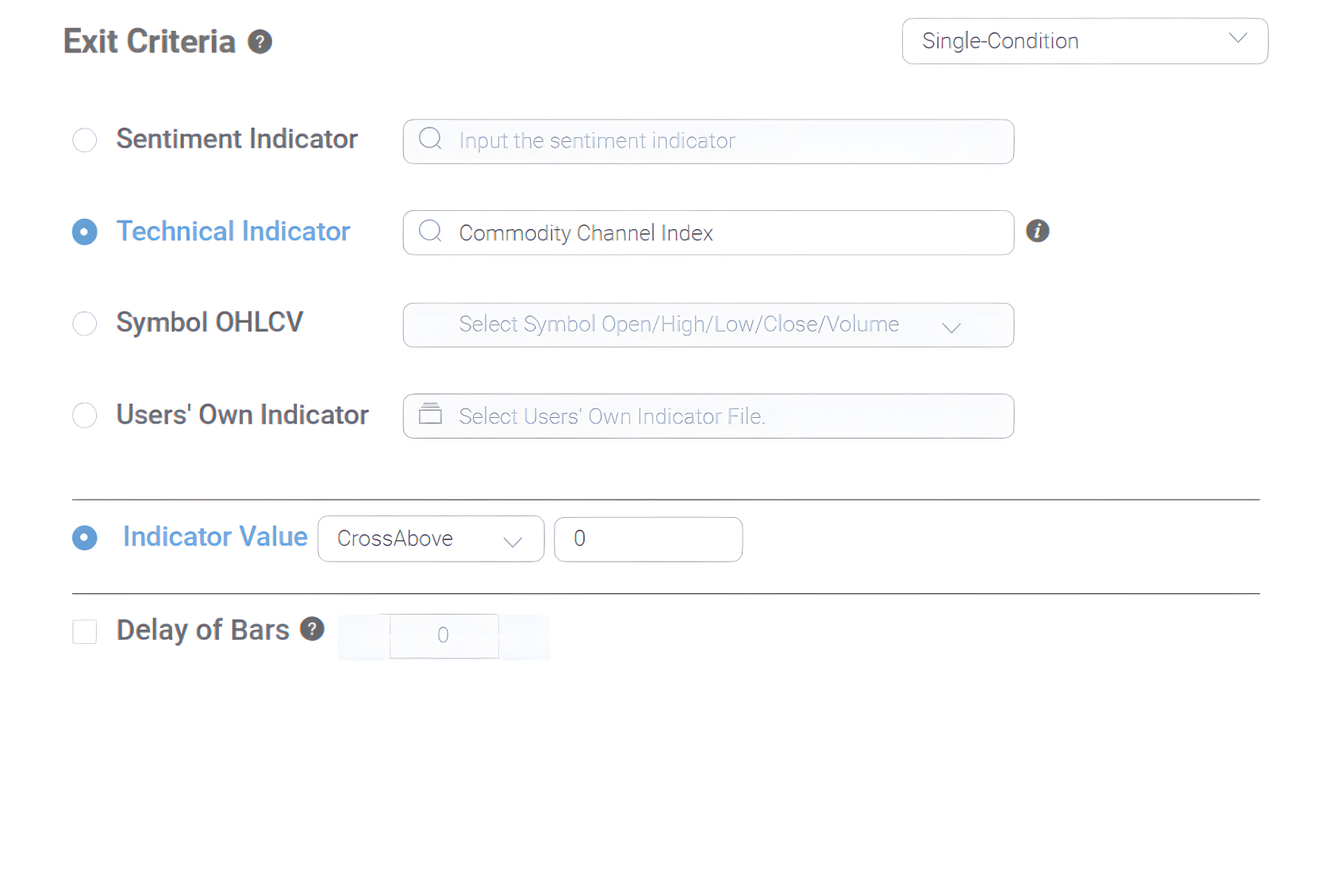
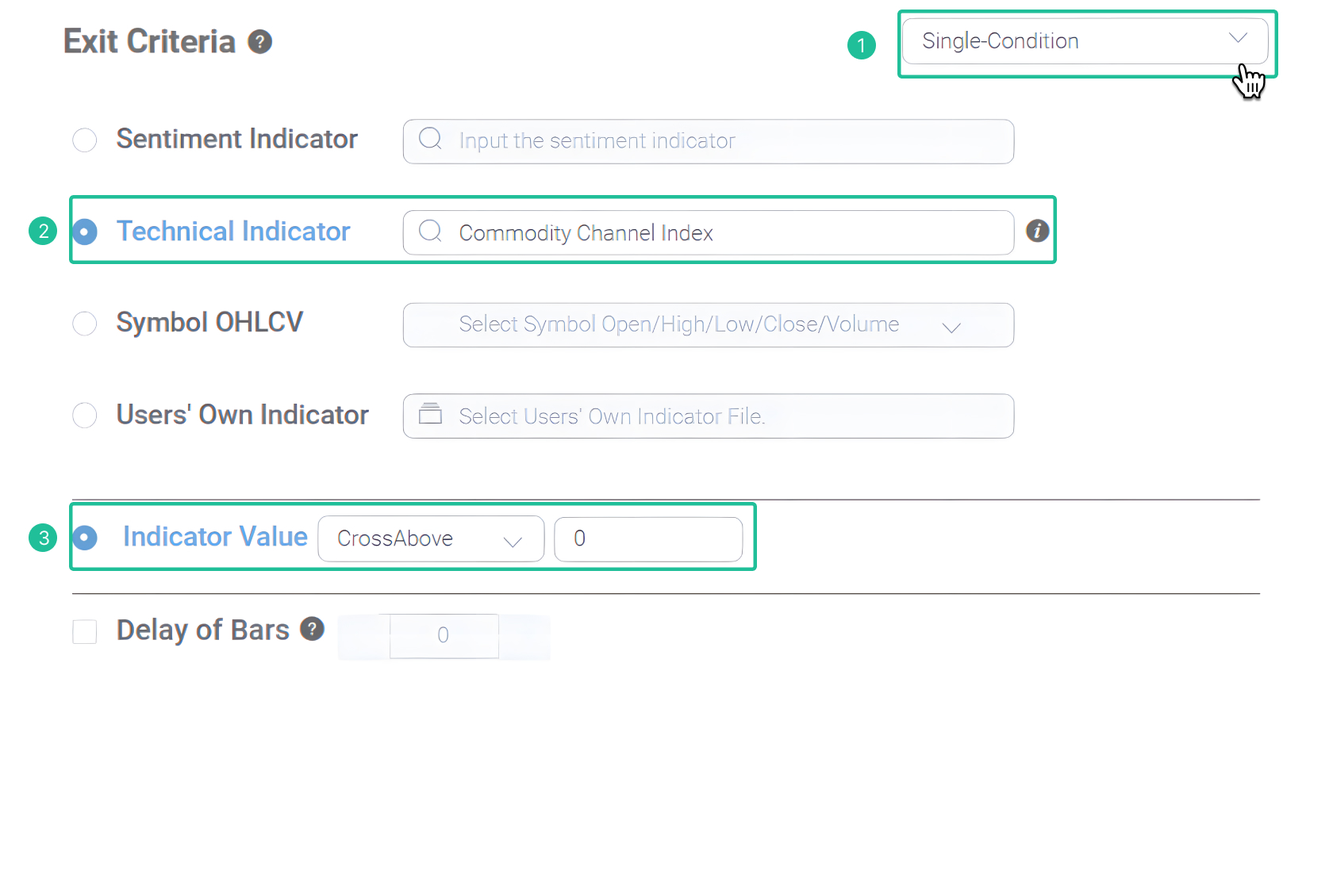
增加标签说明

diff --git a/src/components/Menu/components/Tabs.vue b/src/components/Menu/components/Tabs.vue
@@ -1,0 +1,219 @@
+<template>
+	<div>
+		<!-- 头部标签 -->
+		<div class="tabs">
+			<div
+				v-for="(tab, index) in tabs"
+				:key="index"
+				class="tab"
+				:class="{ active: activeTab === index }"
+				@click="changeTab(index)"
+			>
+				<el-tag
+					:type="tab.type"
+					effect="dark"
+					:class="{ 'active-tag': activeTab == tab.index }"
+					>{{ tab.title }}</el-tag
+				>
+			</div>
+		</div>
+
+		<!-- 内容展示区域 -->
+		<div class="content">
+			<div
+				v-for="(tab, index) in tabs"
+				:key="index"
+				v-show="activeTab === index"
+			>
+				<div v-for="(item, index) in tab.content" :key="index">
+					<p>{{ item }}</p>
+				</div>
+			</div>
+		</div>
+	</div>
+</template>
+
+<script>
+export default {
+  data() {
+    return {
+      activeTab: 0, // 当前激活的标签索引
+      tabs: [
+        {
+          title: 'Sentiment Indicator', content: [
+            'In stock backtesting, a Sentiment Indicator refers to an indicator used to measure the sentiment of market participants or market sentiment. It is determined by analyzing the comments, behavior, or other indicators of market participants.',
+            'Stock backtesting is a strategic analysis method that evaluates the performance of a specific investment strategy or trading system on historical data by reviewing past market data and indicators. Sentiment indicators are used in stock backtesting to examine the sentiment of market participants and attempt to correlate the sentiment indicator with stock prices or market trends.',
+            'Common sentiment indicators include Smart Money Confidence, Dumb Money Confidence, and others. Sentiment indicators can be used as part of an investment strategy to make buy or sell decisions. For example, when a sentiment indicator shows that market sentiment has reached extreme levels, investors may consider adopting a contrarian trading strategy, reducing positions when market sentiment is excessively optimistic or increasing positions when market sentiment is excessively pessimistic.',
+            'However, it is important to note that sentiment indicators are not standalone predictors of market trends but rather auxiliary tools. The stock market is influenced by multiple factors, and sentiment is just one of them. Therefore, when using sentiment indicators, it is necessary to combine them with other technical indicators and fundamental analysis to make more accurate decisions. Additionally, the calculation and interpretation of sentiment indicators should be approached with caution, avoiding excessive reliance on a single indicator to judge the market.'
+          ], type: 'success'
+        },
+        {
+          title: 'Technical Indicator', content: [
+            'A Technical Indicator is a tool used to analyze financial markets. It is based on historical price and volume data and generates visual indicators or signals through mathematical calculations or statistical models. Technical indicators aim to reveal market trends, price dynamics, and trading opportunities to assist investors in making decisions.',
+            'The calculation of technical indicators is typically based on historical price and volume data, including opening price, closing price, high price, low price, and volume. These indicators can be used to identify market trends, cyclical fluctuations, and price support and resistance levels.',
+            'Some common technical indicators include:',
+            '1. Moving Average: Smooths price data by calculating the average price over a specified period and displays the price trend. Common types of moving averages include Simple Moving Average (SMA) and Exponential Moving Average (EMA).',
+            '2. Relative Strength Index (RSI): Measures the overbought and oversold conditions of the market by evaluating the magnitude of price gains and losses.',
+            '3. Moving Average Convergence Divergence (MACD): Combines short-term and long-term moving averages to display price trend conditions and generate buy and sell signals.',
+            'These are just a few examples of common technical indicators. Each indicator has its specific calculation method and interpretation. Investors typically use multiple technical indicators to analyze the market comprehensively and combine them with other analysis methods to develop investment strategies and make trading decisions.'
+          ], type: 'info'
+        },
+        {
+          title: 'Symbol OHLCV', content: [
+            'In the financial field, Symbol OHLCV refers to a common format for representing historical data of financial asset prices and trading volumes. It represents the Open, High, Low, Close, and Volume of a financial asset.',
+            'Each trading period (e.g., minutes, hours, days) generates a Symbol OHLCV data point. Here is an explanation of each data field:',
+            'Open: The starting price of a particular trading period, representing the price of the asset at the beginning of that period.',
+            'High: The highest point reached by the asset price within that trading period.',
+            'Low: The lowest point reached by the asset price within that trading period.',
+            'Close: The closing price of a particular trading period, representing the price of the asset at the end of that period.',
+            'Volume: The number of asset trades that occurred within that trading period.',
+            "Symbol OHLCV data is commonly used in fields such as chart analysis, technical analysis, and algorithmic trading. By analyzing this data, trends in asset prices, support and resistance levels, and market participants' trading activity can be revealed.",
+            "Common financial market data sources and trading platforms provide functionality to store and transmit data in Symbol OHLCV format. Analysts and traders can use this data to construct charts, apply technical indicators, and backtest and optimize models and strategies based on historical prices and volumes.",
+            "It is important to note that the frequency and time periods of Symbol OHLCV data can be set according to specific needs, such as minute data, hourly data, or daily data, among others. Additionally, Symbol OHLCV data only provides information about prices and trading volumes, and other financial indicators and fundamental data may need to be used in conjunction with it for a more comprehensive analysis and decision-making."
+          ], type: 'warning'
+        },
+        {
+          title: 'Extreme Optimism', content: [
+            'In sentiment indicators, "Extreme Optimism" refers to a state where market participants exhibit a highly positive and optimistic outlook. When the market sentiment reaches extreme optimism, investors generally hold high expectations for the market and tend to buy stocks or other assets.',
+            "Extreme optimism in sentiment indicators can be determined based on different sentiment indicators or market participants' behavior. Here are some examples of sentiment indicators that may indicate extreme optimism:",
+            "1. Investor Surveys: For instance, surveys targeting investors may show that a majority of investors have a highly positive and optimistic view of the market. This could indicate that market participants hold high expectations for future economic prospects and stock market performance.",
+            "2. Sentiment Analysis: By conducting sentiment analysis on textual data such as news reports, social media posts, or online forums, the inclination of market participants' sentiment can be evaluated. When sentiment analysis reveals a significant amount of positive sentiment in the text, it may reflect extreme optimism in the market sentiment.",
+            "3. Technical Indicators: Certain technical indicators may indicate an overbought condition in the market, suggesting a bias towards optimistic sentiment among investors. For example, overbought indicators like RSI show that a stock or index has exceeded the range of buying levels, which may imply that market sentiment is in a state of extreme optimism.",
+            'In BacktestEdeg, select the "Sentiment Indicator" radio button and enter the sentiment indicator you want to search for in the search box, such as "Smart Money Confidence." Below Smart Money Confidence, the corresponding value of "Extreme Optimism" will be displayed.',
+            'Extreme optimism in sentiment indicators can influence market behavior and price trends. Investors commonly believe that the market will continue to rise, which can lead to overbuying and overvaluation. However, it is important to note that extreme optimism in sentiment does not always mean that the market will immediately reverse or decline. Market sentiment is a dynamic factor that needs to be combined with other analytical tools and indicators to make more accurate judgments and decisions.'
+          ], type: 'danger'
+        },
+        {
+          title: 'Extreme Pessimism', content: [
+            'In sentiment indicators, "Extreme Pessimism" refers to a state where market participants exhibit a highly negative and pessimistic outlook. When the market sentiment reaches extreme pessimism, investors generally hold very low expectations for the market and tend to sell stocks or other assets.',
+            "Extreme pessimism in sentiment indicators can be determined based on different sentiment indicators or market participants' behavior. Here are some examples of sentiment indicators that may indicate extreme pessimism:",
+            '1. Investor Surveys: For instance, surveys targeting investors may show that a majority of investors have a highly negative and pessimistic view of the market. This could indicate that market participants hold very low expectations for future economic prospects and stock market performance.',
+            "2. Sentiment Analysis: By conducting sentiment analysis on textual data such as news reports, social media posts, or online forums, the inclination of market participants' sentiment can be evaluated. When sentiment analysis reveals a significant amount of negative sentiment in the text, it may reflect extreme pessimism in market sentiment.",
+            "3. Technical Indicators: Certain technical indicators may indicate an oversold condition in the market, suggesting a bias towards pessimistic sentiment among investors. For example, oversold indicators like RSI show that a stock or index has fallen below the range of selling levels, which may imply that market sentiment is in a state of extreme pessimism.",
+            'Extreme pessimism in sentiment indicators can influence market behavior and price trends. Investors commonly believe that the market will continue to decline, which can lead to overselling and the market being undervalued. However, it is important to note that extreme pessimism in sentiment does not always mean that the market will immediately reverse or rise. Market sentiment is a dynamic factor that needs to be combined with other analytical tools and indicators to make more accurate judgments and decisions.'
+          ], type: 'danger'
+        },
+        {
+          title: 'CrossAbove', content: [
+            'In backtesting trading systems, "CrossAbove" is a technical indicator signal used to indicate when one indicator or price line crosses above another indicator or price line.',
+            'Specifically, "CrossAbove" typically refers to a situation where an indicator or price line crosses from below to above another indicator or price line. This crossover is often seen as a potential buying signal, implying a change in price trend.',
+            "For example, let's assume we have two indicators, A and B, and we observe their crossover. When A crosses above B, it means that A was below B before a certain point in time and then crosses over to be above B at that point. This situation is often interpreted as a potential buying signal, suggesting the formation of an upward price trend.",
+            '"CrossAbove" can be applied to various combinations of indicators and price lines. Common examples include crossovers between moving average lines, such as the short-term moving average crossing above the long-term moving average, or when the price line crosses an important horizontal level.',
+            'The "CrossAbove" signal in backtesting trading systems is often used as one of the buying conditions for technical indicators. By backtesting historical data, the effectiveness and profitability of this signal can be evaluated. However, it is important to note that a single signal does not guarantee accurate predictions of market behavior. Therefore, when formulating trading strategies, it is advisable to combine other technical indicators and risk management principles.'
+          ], type: 'info'
+        },
+        {
+          title: 'CrossBelow', content: [
+            'In backtesting trading systems, "CrossBelow" is a technical indicator signal used to indicate when one indicator or price line crosses below another indicator or price line.',
+            'Specifically, "CrossBelow" typically refers to a situation where an indicator or price line crosses from above to below another indicator or price line. This crossover is often seen as a potential selling signal, implying a change in price trend.',
+            "For example, let's assume we have two indicators, A and B, and we observe their crossover. When A crosses below B, it means that A was above B before a certain point in time and then crosses under B at that point. This situation is often interpreted as a potential selling signal, suggesting the formation of a downward price trend.",
+            '"CrossBelow" can be applied to various combinations of indicators and price lines. Common examples include crossovers between moving average lines, such as the short-term moving average crossing below the long-term moving average, or when the price line crosses an important support level.',
+            'The "CrossBelow" signal in backtesting trading systems is often used as one of the selling conditions for technical indicators. By backtesting historical data, the effectiveness and profitability of this signal can be evaluated. However, it is important to note that a single signal does not guarantee accurate predictions of market behavior. Therefore, when formulating trading strategies, it is advisable to combine other technical indicators and risk management principles.'
+          ], type: 'warning'
+        },
+        {
+          title: 'Rate Of Change', content: [
+            'In backtesting trading, "Rate of Change" (ROC) is a technical indicator used to measure the speed of price or indicator changes over a given time period.',
+            'ROC represents the rate of change by calculating the percentage change between the current price or indicator value and a previous price or indicator value. It helps traders and analysts assess the short-term momentum and trend of prices or indicators.',
+            'The steps to calculate ROC are as follows:',
+            '1. Choose a time period (e.g., 20 trading days).',
+            '2. Obtain the current price or indicator value at the current time point.',
+            '3. Retrieve the price or indicator value from the specified time period ago (referred to as the past value).',
+            '4. Calculate the percentage rate of change: ROC = ((current value - past value) / past value) * 100.',
+            'For example, suppose a stock has a current price of $50 and a price from 20 trading days ago of $40. The ROC would be ((50 - 40) / 40) * 100 = 25%. This means that the price of the stock has increased by 25% over the past 20 trading days.',
+            'ROC can be used to assess the speed of price or indicator changes. If the ROC value is positive, it indicates a relatively fast upward movement in prices or indicators. If the ROC value is negative, it suggests a relatively fast downward movement. Traders can combine ROC with other technical indicators or price patterns to confirm market trends, identify overbought or oversold conditions, and develop buy or sell strategies.',
+            'It is important to note that ROC is a short-term indicator and sensitive to market noise. Therefore, it should be used in conjunction with other indicators and analysis tools to obtain more accurate trading signals and decisions.'
+          ], type: 'success'
+        },
+        {
+          title: 'Range Of Rank', content: [
+            "In backtesting trading, 'Range of Rank' is an indicator used to evaluate the relative performance of an asset or indicator over a certain period of time. It is used to determine the position of an asset or indicator's ranking among the overall market or other participating assets.",
+            "The Range of Rank is represented by converting the performance of an asset or indicator relative to others into a percentile range. This range indicates the level of performance of the asset or indicator compared to other participants.",
+            "The steps to calculate ROC (Rate of Change) are as follows:",
+            "1. Select a time period (e.g., 20 trading days).",
+            "2. Obtain the price or indicator value at the current time point (referred to as the current value).",
+            "3. Obtain the price or indicator value at a specified time period in the past from the current time point (referred to as the past value).",
+            "4. Calculate the percentage rate of change: ROC = ((current value - past value) / past value) * 100.",
+            "For example, let's assume a stock has a price of $50 at the current time point and a price of $40 twenty trading days ago. The ROC would be ((50 - 40) / 40) * 100 = 25%. This means that the price of the stock has increased by 25% over the past twenty trading days.",
+            "ROC can be used to assess the rate of price or indicator changes. A positive ROC value indicates a relatively fast increase in price or indicator, while a negative ROC value indicates a relatively fast decrease. Traders can combine ROC with other technical indicators or price patterns to confirm market trends, identify overbought or oversold conditions, and formulate buying or selling strategies.",
+            "It's important to note that ROC is a short-term indicator and is sensitive to market noise. Therefore, it should be used in conjunction with other indicators and analytical tools to obtain more accurate trading signals and decisions."
+          ], type: 'info'
+        },
+        {
+          title: 'MA Ratio', content: [
+            "In backtesting trading, 'MA Ratio' (Moving Average Ratio) is a technical indicator used to measure the ratio between the short-term and long-term moving averages of an asset's price or indicator.",
+            "MA Ratio is represented by converting the difference between the short-term and long-term moving averages into a ratio or percentage. This ratio provides information about the trend changes and relative strength of the asset's price over different time periods.",
+            "The steps to calculate MA Ratio are as follows:",
+            "1. Select a time period for the short-term moving average (e.g., 20 days) and a time period for the long-term moving average (e.g., 50 days).",
+            "2. Calculate the values of the short-term and long-term moving averages.",
+            "3. Calculate the MA Ratio by dividing the value of the short-term moving average by the value of the long-term moving average and convert it into a ratio or percentage.",
+            "For example, let's assume a stock has a 20-day moving average of $50 and a 50-day moving average of $45. The MA Ratio would be $50 / $45 = 1.11. This means that the value ratio of the short-term moving average to the long-term moving average is 1.11.",
+            "MA Ratio can help traders analyze price trends and determine the relative strength of an asset. When the MA Ratio is greater than 1, it indicates relatively strong short-term trends, and the price may be in an upward state. When the MA Ratio is less than 1, it indicates relatively weak short-term trends, and the price may be in a downward state.",
+            "Traders can use MA Ratio as a reference for buying or selling signals. For example, when the MA Ratio crosses above 1 from below, it may indicate a strengthening short-term trend, and a buying opportunity can be considered. When the MA Ratio crosses below 1 from above, it may indicate a weakening short-term trend, and a selling opportunity can be considered.",
+            "It's important to note that MA Ratio is a technical indicator and only serves as a supplementary tool. It should be used in conjunction with other technical indicators and analysis methods to obtain a more comprehensive market analysis and trading decisions."
+          ], type: 'danger'
+        },
+        {
+          title: 'SameBar', content: [
+            "In backtesting trading, 'SameBar' refers to trading operations that occur within the same candlestick (K-line).",
+            "In technical analysis, candlestick charts are commonly used to represent the price movements of assets, where each candlestick represents a specific time period (e.g., 1 minute, 5 minutes, daily, etc.). Trading operations within the same candlestick indicate buying or selling actions taken during that specific time period.",
+            "When trading operations in a backtesting system occur within the same candlestick, it is referred to as a SameBar trade. This situation may occur when backtesting using shorter time periods for candlesticks because shorter time periods represent shorter time spans with more frequent price fluctuations, resulting in trading signals being generated within the same candlestick.",
+            "Trading operations within the same candlestick have certain characteristics and considerations. Firstly, as the trading operations occur at the same price level, multiple trading signals may be triggered simultaneously, increasing the trading frequency and costs. Secondly, trading operations within the same candlestick mean that trading decisions must be based on the information and price dynamics within the current candlestick, requiring more timely decision-making.",
+            "Trading operations within the same candlestick can lead to quick profits or losses within a short period. Therefore, the handling of SameBar trades depends on specific trading strategies and risk management principles. Some trading strategies may limit trading operations within the same candlestick to avoid excessive trading and an overly active portfolio.",
+            "It's important to note that SameBar trades are determined based on the backtesting trading system and the chosen time period. When conducting backtesting and analysis, traders should consider the selection of time periods and how to handle trading operations within the same candlestick to maintain consistency and reliability."
+          ], type: 'info'
+        },
+        {
+          title: 'TimeOrder',
+          content: [
+            "In backtesting trading, 'TimeOrder' refers to the method of executing trading operations based on the chronological order of their occurrence.",
+            "Backtesting involves evaluating the effectiveness of a trading strategy by simulating historical market data and trading rules. During the backtesting process, trading signals may be generated at different time points, requiring determination of the order in which trades are executed.",
+            "TimeOrder specifies the chronological order in which trades are executed. There are two common TimeOrder methods:",
+            "Time Priority: Trades are executed in the order in which the trading signals are generated. In other words, trades generated earlier are executed first, followed by trades generated later. This method simulates the sequential nature of actual market trading and is commonly used.",
+            "Price Priority: Trades are executed based on the price order at the time the trading signals are generated. In other words, trades with higher or lower prices are executed first, followed by trades with lower or higher prices. This method assumes that price has more influence, thus giving priority to trades with higher or lower prices.",
+            "The choice of an appropriate TimeOrder method depends on the characteristics and objectives of the trading strategy. Time Priority is closer to real trading conditions and can accurately simulate the order of trade executions in the market. Price Priority considers the influence of price and may be more suitable for certain strategies or market conditions.",
+            "In backtesting platforms or trading software, options are typically provided to set the TimeOrder, allowing traders to choose the appropriate method according to their needs.",
+            "It's important to note that TimeOrder can have an impact on trading results. Different TimeOrder methods can lead to different trade execution sequences, affecting factors such as trading costs and slippage. Traders should be aware of this impact and conduct thorough testing and validation during the backtesting process to obtain more accurate and reliable backtesting results."
+          ]
+        }
+      ],
+    };
+  },
+  methods: {
+    changeTab(index) {
+      this.activeTab = index; // 切换激活的标签
+    },
+  },
+};
+</script>
+
+<style>
+.tabs {
+	display: flex;
+	justify-content: flex-start;
+	margin: 0 auto;
+	flex-wrap: wrap;
+}
+
+.tab {
+	cursor: pointer;
+	padding: 10px;
+	margin-right: 10px;
+}
+.tab.active .el-tag {
+	background: #5b9bd1;
+	border: 1px solid #5b9bd1;
+	box-shadow: 0px 0px 5px 5px #cee4f7;
+}
+
+.content {
+	margin-top: 20px;
+}
+.content p {
+	line-height: 1.7;
+	word-wrap: break-word;
+	font-weight: 400;
+	color: #00323c;
+	font-size: 1rem;
+}
+</style>

diff --git a/src/components/Menu/components/Content.vue b/src/components/Menu/components/Content.vue
@@ -1,4 +1,5 @@
 <template>
+	<!-- <div class="doc-content" :class="isToggle ? 'toggle' : ''"> -->
 	<div class="doc-content" :class="isToggle ? 'toggle' : ''">
 		<div class="section-container">
 			<div
@@ -405,7 +406,7 @@
 					<h3 id="1-0-2">Fill in the exit criteria</h3>
 					<p>
 						Select Single Signal in the drop-down list in the upper right corner
-						of the Entry Criteria section; Select a sentiment or technical
+						of the Exit Criteria section; Select a sentiment or technical
 						indicator from the drop-down box indicator field, fill in required
 						value and choose condition in the signal section. For sentiment
 						indicator, the Extreme Optimism and Extreme Pessimism values are
@@ -430,7 +431,7 @@
 						Backtest History tab and click 'Edit" icon to modify backtest data.
 					</p>
 					<el-image
-						style="width: 50%; height: 50%"
+						style="width: 100%; height: 50%"
 						class="image-border"
 						:src="path103"
 						:preview-src-list="path103List"
@@ -528,7 +529,7 @@
 						lazy
 					></el-image>
 					<h2 id="1-3">
-						Create a sameday multi-signal entry/exit criteria new backtest
+						Create a samebar multi-signal entry/exit criteria new backtest
 					</h2>
 					<hr />
 					<h3 id="1-3-0">Fill in the basic information for the backtest</h3>
@@ -635,7 +636,7 @@
 						entry criteria section; then signal1 and signal2 panels will show by
 						default and the default period value is 2. Clicking on the + sign
 						will increase the number of entry signals and also the period value.
-						The maximum number of signals in SameBar Multi-Signal selection is
+						The maximum number of signals in TimeOrder Multi-Signal selection is
 						3. Then you can fill in each signal panel corresponding to the entry
 						condition same as single-signal selection.
 					</p>
@@ -655,7 +656,7 @@
 						exit criteria section; then signal1 and signal2 panels will show by
 						default and the default period value is 2. Clicking on the + sign
 						will increase the number of exit signals and also the period value.
-						The maximum number of signals in SameBar Multi-Signal selection is
+						The maximum number of signals in TimeOrder Multi-Signal selection is
 						3. Then you can fill in each signal panel corresponding to the exit
 						condition same as single-signal selection.
 					</p>
@@ -805,7 +806,7 @@
 						'SameBar Multi-Condition' or 'TimeOrder Multi-Condition' and follow
 						the steps in the multi-signal creation tutorial.
 						<el-link type="warning" @click="jump('1-3')"
-							>Create a sameday multi-signal entry/exit criteria new backtest<i
+							>Create a samebar multi-signal entry/exit criteria new backtest<i
 								class="el-icon-top-right"
 							></i
 						></el-link>
@@ -1024,11 +1025,15 @@
 					</p>
 				</section>
 			</section>
+			<section v-else-if="id[0] == '8'">
+				<Tabs></Tabs>
+			</section>
 		</div>
-		<RightMenu :menuItems="menuItems"></RightMenu>
+		<RightMenu :menuItems="menuItems" v-show="menuItems.length != 0"></RightMenu>
 	</div>
 </template>
 <script>
+import Tabs from "./Tabs.vue"
 import chartPath from "../img/chart.jpeg";
 import path010 from "../img/1.1.1.jpg";
 import path011 from "../img/1.1.2.jpg";
@@ -1189,7 +1194,8 @@ export default {
     }
   },
   components: {
-    RightMenu
+    RightMenu,
+		Tabs
   },
   mounted() {
     // scroll代表滚动条距离页面顶部距离

diff --git a/src/components/Menu/components/Guide.vue b/src/components/Menu/components/Guide.vue
@@ -36,7 +36,7 @@ export default {
             { id: '1-0', title: 'Create a single-signal entry/exit criteria new backtest' },
             { id: '1-1', title: 'Use Risk Control at Exit' },
             { id: '1-2', title: 'Set different backtest timeframe' },
-            { id: '1-3', title: 'Create a sameday multi-signal entry/exit criteria new backtest' },
+            { id: '1-3', title: 'Create a samebar multi-signal entry/exit criteria new backtest' },
             { id: '1-4', title: 'Create a timeorder multi-signal entry/exit criteria new backtest' },
             { id: '1-5', title: 'Set the value of delay of bars' },
             { id: '1-6', title: 'Create a new backtest with custom indicator for entry/exit criteria' },
@@ -68,7 +68,11 @@ export default {
           { id: '7', title: 'How to exit with customized Time-In-Market',subsections: [
             { id: '7-0', title: 'Open the History tab and view the backtest results' },
             { id: '7-1', title: 'Click button to customize the TIM' }
-          ]}
+          ]},
+          {
+            id: '8', title: 'Backtesting parameter explanation', subsections: [
+            ]
+          }
       ],
       activeSection: '0',
       isToggle: false

diff --git a/src/components/BacktestEdge/Home.vue b/src/components/BacktestEdge/Home.vue
@@ -1226,9 +1226,14 @@ export default {
                       CIQ.nprogress.done()
 
                       if (error?.response?.status === 403) {
+                        // vm.$message({
+                        //   message:
+                        //     'This backtest is already in your history list',
+                        //   type: 'error'
+                        // })
                         vm.$message({
                           message:
-                            'This backtest is already in your history list',
+                            'The internal server is busy, please try again later ',
                           type: 'error'
                         })
                       } else {
